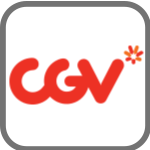
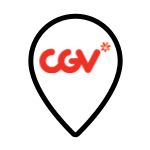
feat: 제휴 마커 생성

diff --git a/src/stores/map.js b/src/stores/map.js
@@ -49,13 +49,23 @@ export const useMapStore = defineStore('map', {
         this.apiData = []; // aptData 초기화
       }
     },
-    // 범위 밖 마커 삭제
+    // 범위 밖 지점 마커 삭제
     removeOutOfBoundsMarkers(bounds) {
       this.storeMarkers.forEach((marker, index) => {
         const markerPosition = marker.getPosition();
         if (!bounds.hasLatLng(markerPosition)) {
           marker.setMap(null); // 범위 밖의 마커는 지도에서 제거
           this.storeMarkers.splice(index, 1); // 배열에서도 제거
+        }
+      });
+    },
+    // 범위 밖 제휴 마커 삭제
+    removeOutOfBoundsMarkers2(bounds) {
+      this.coalitionMarkers.forEach((marker, index) => {
+        const markerPosition = marker.getPosition();
+        if (!bounds.hasLatLng(markerPosition)) {
+          marker.setMap(null); // 범위 밖의 마커는 지도에서 제거
+          this.coalitionMarkers.splice(index, 1); // 배열에서도 제거
         }
       });
     },
@@ -106,14 +116,8 @@ export const useMapStore = defineStore('map', {
       const bounds = map.getBounds(); // 현재 지도 범위 가져오기
 
       // 범위 밖 마커 삭제 함수 호출
-      this.removeOutOfBoundsMarkers(bounds);
+      this.removeOutOfBoundsMarkers2(bounds);
 
-      const markerIcons = {
-        GS: '/images/GS.png',
-        olive: '/images/olive.png',
-        coffee: '/images/star.png',
-        cgv: '/images/cgv.png',
-      };
       // 현재 범위에 없는 새로운 마커만 추가
       for (let i = 0; i < this.coalitionApiData.length; i++) {
         const location = this.coalitionApiData[i];
@@ -129,12 +133,33 @@ export const useMapStore = defineStore('map', {
           const existingMarker = this.coalitionMarkers.find((marker) =>
             marker.getPosition().equals(markerPosition)
           );
+
           if (!existingMarker) {
+            let iconUrl = '/images/default.png'; // 기본 아이콘
+            switch (type) {
+              case 'gs':
+                iconUrl = '/images/gs.png';
+                break;
+              case 'coffee':
+                iconUrl = '/images/star.png';
+                break;
+              case 'olive':
+                iconUrl = '/images/olive.png';
+                break;
+              case 'cgv':
+                iconUrl = '/images/cgv.png';
+                break;
+              case 'cu':
+                iconUrl = '/images/cu.png';
+                break;
+              default:
+                console.error(`Unknown marker type: ${type}`);
+            }
             const markerOptions = {
               position: markerPosition,
               map: map,
               icon: {
-                url: markerIcons[type] || '/images/GS.png',
+                url: iconUrl,
                 scaledSize: new naver.maps.Size(50, 50),
                 origin: new naver.maps.Point(0, 0),
                 anchor: new naver.maps.Point(34, 70),

diff --git a/src/pages/Map.vue b/src/pages/Map.vue
@@ -1,8 +1,17 @@
 <template>
   <div id="map"></div>
   <!-- <Menu /> -->
+
+  <CoalitionInfo
+    v-if="showModal && isCoalitionType"
+    :location="selectedLocation"
+    :isInRange="isInRange"
+    @close="closeModal"
+  />
+
+  <!-- 그 외에는 StoreInfo 컴포넌트를 보여줌 -->
   <StoreInfo
-    v-if="showModal"
+    v-else-if="showModal"
     :location="selectedLocation"
     :isInRange="isInRange"
     @close="closeModal"
@@ -10,11 +19,12 @@
 </template>
 
 <script setup>
-import { onMounted, onBeforeUnmount, ref, watch } from 'vue';
+import { computed, onMounted, onBeforeUnmount, ref, watch } from 'vue';
 import { useMapStore } from '@/stores/map';
 import { useGpsStore } from '@/stores/gps';
 import Menu from '@/components/Menu.vue';
 import StoreInfo from '@/components/StoreInfo.vue';
+import CoalitionInfo from '@/components/CoalitionInfo.vue';
 
 const mapStore = useMapStore();
 const gpsStore = useGpsStore();
@@ -46,7 +56,6 @@ onMounted(async () => {
       center: new naver.maps.LatLng(gpsStore.latitude, gpsStore.longitude),
       zoom: 19,
       minZoom: 15, // 최소 줌 레벨
-      mapTypeControl: true,
     });
     // 마커 첫 위치
     const userLatLng = new naver.maps.LatLng(
@@ -162,6 +171,11 @@ const showLocationInfo = (location) => {
   showModal.value = true;
 };
 
+const isCoalitionType = computed(() => {
+  return ['gs', 'coffee', 'cgv', 'olive', 'cu'].includes(
+    selectedLocation.value?.type
+  );
+});
 // 모달 닫기
 const closeModal = () => {
   showModal.value = false;

diff --git a/src/components/CoalitionInfo.vue b/src/components/CoalitionInfo.vue
@@ -1,0 +1,64 @@
+<template>
+  <div class="modal-content">
+    <span class="close-btn" @click="close">&times;</span>
+    <div v-if="location">
+      <h2 class="head-color">{{ location.name }}</h2>
+      <p>주소: {{ location.address }}</p>
+    </div>
+  </div>
+</template>
+<script setup>
+import { computed } from 'vue';
+import { useToast } from 'vue-toastification';
+import { useQuizStore } from '@/stores/quiz';
+
+// 부모로부터 위치 정보를 props로 받음
+const props = defineProps({
+  location: Object,
+  isInRange: Boolean,
+});
+
+// 닫기 이벤트를 부모에게 전달
+const emit = defineEmits(['close']);
+
+const close = () => {
+  emit('close'); // 부모 컴포넌트에 close 이벤트 전달
+};
+</script>
+<style>
+.modal-content {
+  background-color: white;
+  padding: 20px;
+  width: 100%;
+  height: 20%;
+  box-shadow: 0 0 10px rgba(0, 0, 0, 0.5);
+  position: fixed;
+  bottom: 0;
+  left: 0;
+  display: flex;
+  justify-content: center;
+  z-index: 1000;
+}
+
+.close-btn {
+  position: absolute;
+  top: 10px;
+  right: 15px;
+  cursor: pointer;
+  font-size: 24px;
+}
+.quiz-btn {
+  position: absolute;
+  bottom: 10px;
+  right: 15px;
+  font-size: 20px;
+  color: white;
+  border-radius: 10px;
+  border: none;
+  background-color: #f3b706;
+}
+
+.head-color {
+  color: #0168c3;
+}
+</style>
